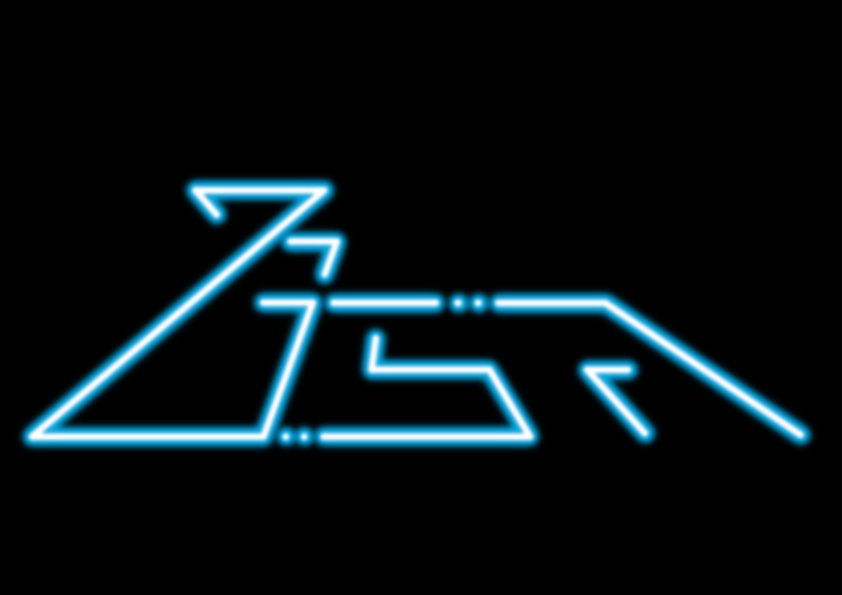
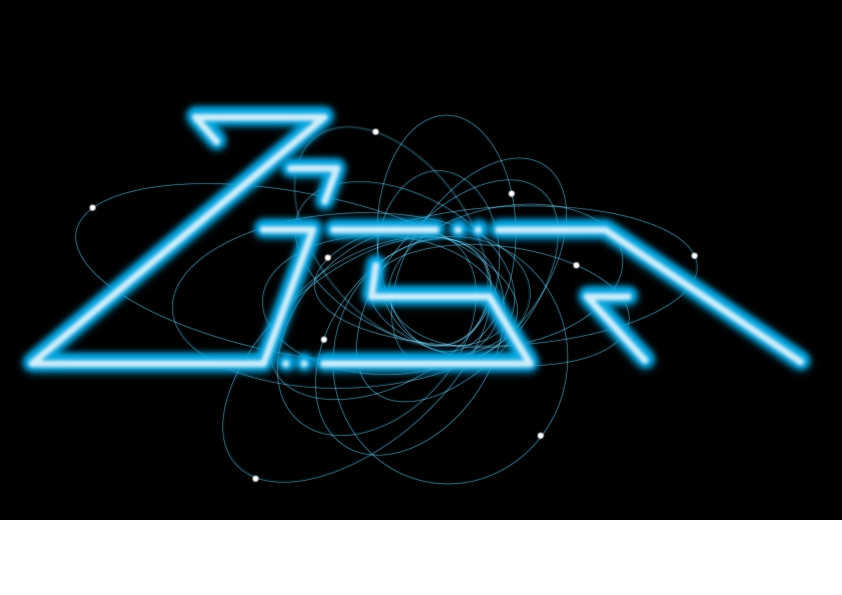
Changing talks (my talk was cancelled), adding a new project around numeter, and images associated

diff --git a/content/projects/index.html b/content/projects/index.html
@@ -3,10 +3,10 @@ title: "Projects"
 ---
 <div class="well">
   <p class="lead">
-    Here is a list of Free Software (or related) projects I maintain or contribute to. I only list the projects for which I made a significant contribution, or the ones where I'm one of the author or developer.
+    Here is a list of projects I maintain.
   </p>
   <p>
-    There's also a lot of small contributions I did all over the years.
+    There's also a lot of small contributions I did all over the years on other opensource projects.
   </p>
 </div>
 
@@ -37,5 +37,9 @@ title: "Projects"
   {{ render_software("L.I.S.A",
   "http://www.lisa-project.net",
   "/media/images/projects/lisa.png",
-  "L.I.S.A is a project aiming to bring an AI to the habitat") }}
+  "L.I.S.A is a project to bring an AI to the habitat") }}
+  {{ render_software("Numeter Vera Module",
+  "https://github.com/Seraf/numeter-vera-modules",
+  "/media/images/projects/numeter.png",
+  "Module for Numeter bringing graphs to the Vera box (Home Automation)") }}
 </div>

diff --git a/content/talks/index.html b/content/talks/index.html
@@ -8,19 +8,19 @@ default_block: None
 
 {% block main %}
 <div class="media">
-  <a class="pull-left" href="/media/lisa_pyconfr2013.pdf">
-    <img class="media-object img-thumbnail" src="/media/images/talks/lisa.png">
+  <a class="pull-left" href="">
+    <img class="media-object img-thumbnail" src="/media/images/projects/lisa.png">
   </a>
   <div class="media-body">
     <h4 class="media-heading">L.I.S.A : Build your personal "JARVIS"</h4>
     <span class="glyphicon glyphicon-map-marker"></span>
-      <a href="http://lanyrd.com/2013/pycon-fr/">
+      <a href="#">
         <i>How to build a Digital Life Assistant for your home</i>,
       </a>
-      Paris
+      Strasbourg
       <img class="flag flag-fr" alt="France"/>
     <br>
-    <span class="glyphicon glyphicon-calendar"></span> 26th-29th October 2013
+    <span class="glyphicon glyphicon-calendar"></span> Cancelled
     <br>
     <span class="glyphicon glyphicon-user"></span> Julien Syx
   </div>
